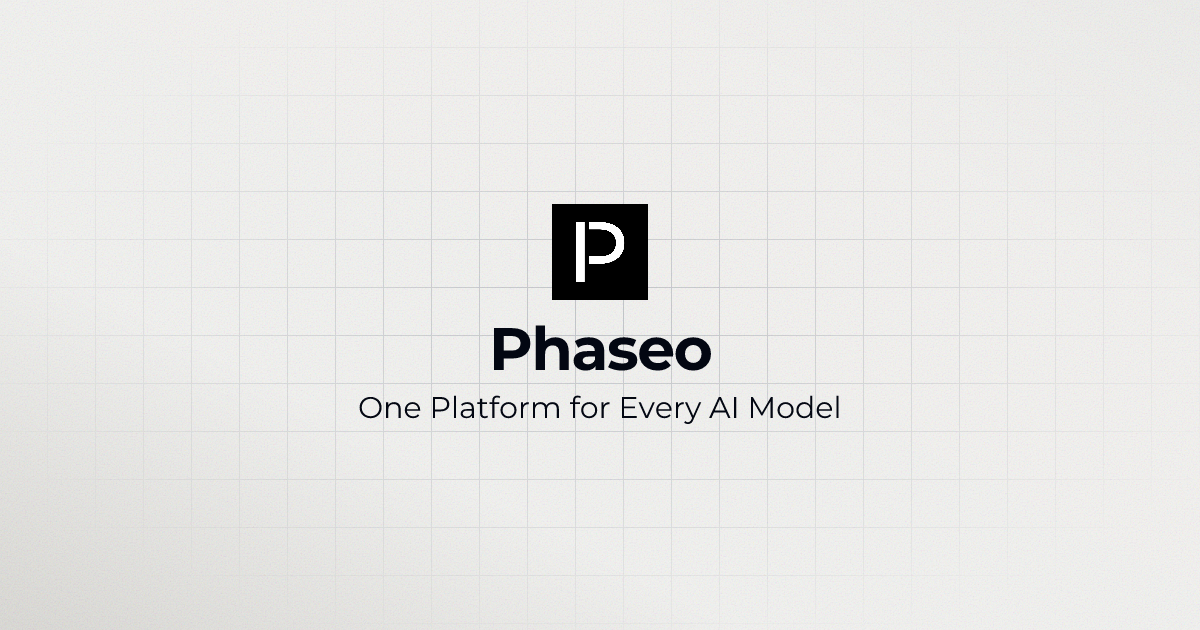
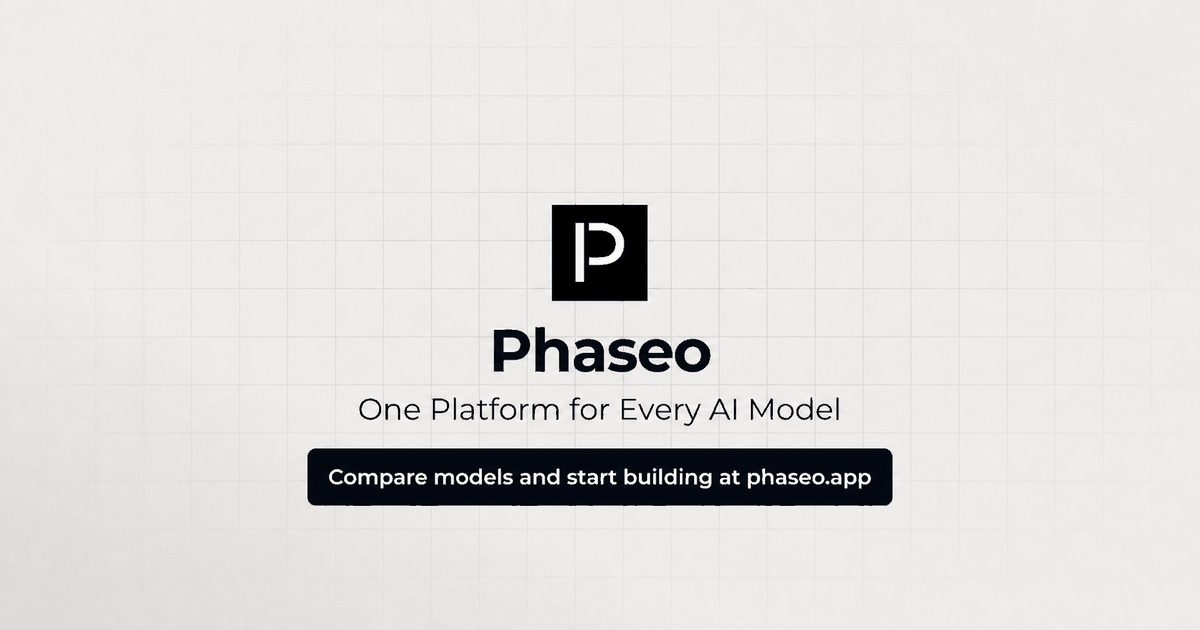
fix(web): improve homepage social preview

Changed region(s): [[0.2467, 0.6333, 0.7708, 0.8143], [0.4008, 0.5127, 0.5858, 0.6032], [0.4625, 0.3619, 0.5242, 0.4222]]

diff --git a/apps/web/src/app/layout.tsx b/apps/web/src/app/layout.tsx
@@ -28,7 +28,7 @@ const montserrat = Montserrat({ subsets: ["latin"] });
 
 export const metadata: Metadata = {
 	title: {
-		default: PREFERRED_SITE_NAME,
+		default: "Phaseo: Compare AI Models, Pricing, and Performance",
 		template: `%s | ${SITE_NAME}`,
 	},
 	description:
@@ -44,7 +44,7 @@ export const metadata: Metadata = {
 		locale: "en_GB",
 		siteName: PREFERRED_SITE_NAME,
 		url: absoluteUrl("/"),
-		title: PREFERRED_SITE_NAME,
+		title: "Phaseo: Compare AI Models, Pricing, and Performance",
 		description:
 			"Browse and compare state-of-the-art AI models, benchmarks, features, and pricing.",
 		images: [
@@ -60,7 +60,7 @@ export const metadata: Metadata = {
 		card: "summary_large_image",
 		site: "@phaseoteam",
 		creator: "@DanielButler001",
-		title: PREFERRED_SITE_NAME,
+		title: "Phaseo: Compare AI Models, Pricing, and Performance",
 		description:
 			"Browse and compare state-of-the-art AI models, benchmarks, features, and pricing.",
 		images: [absoluteUrl("/og.png")],
